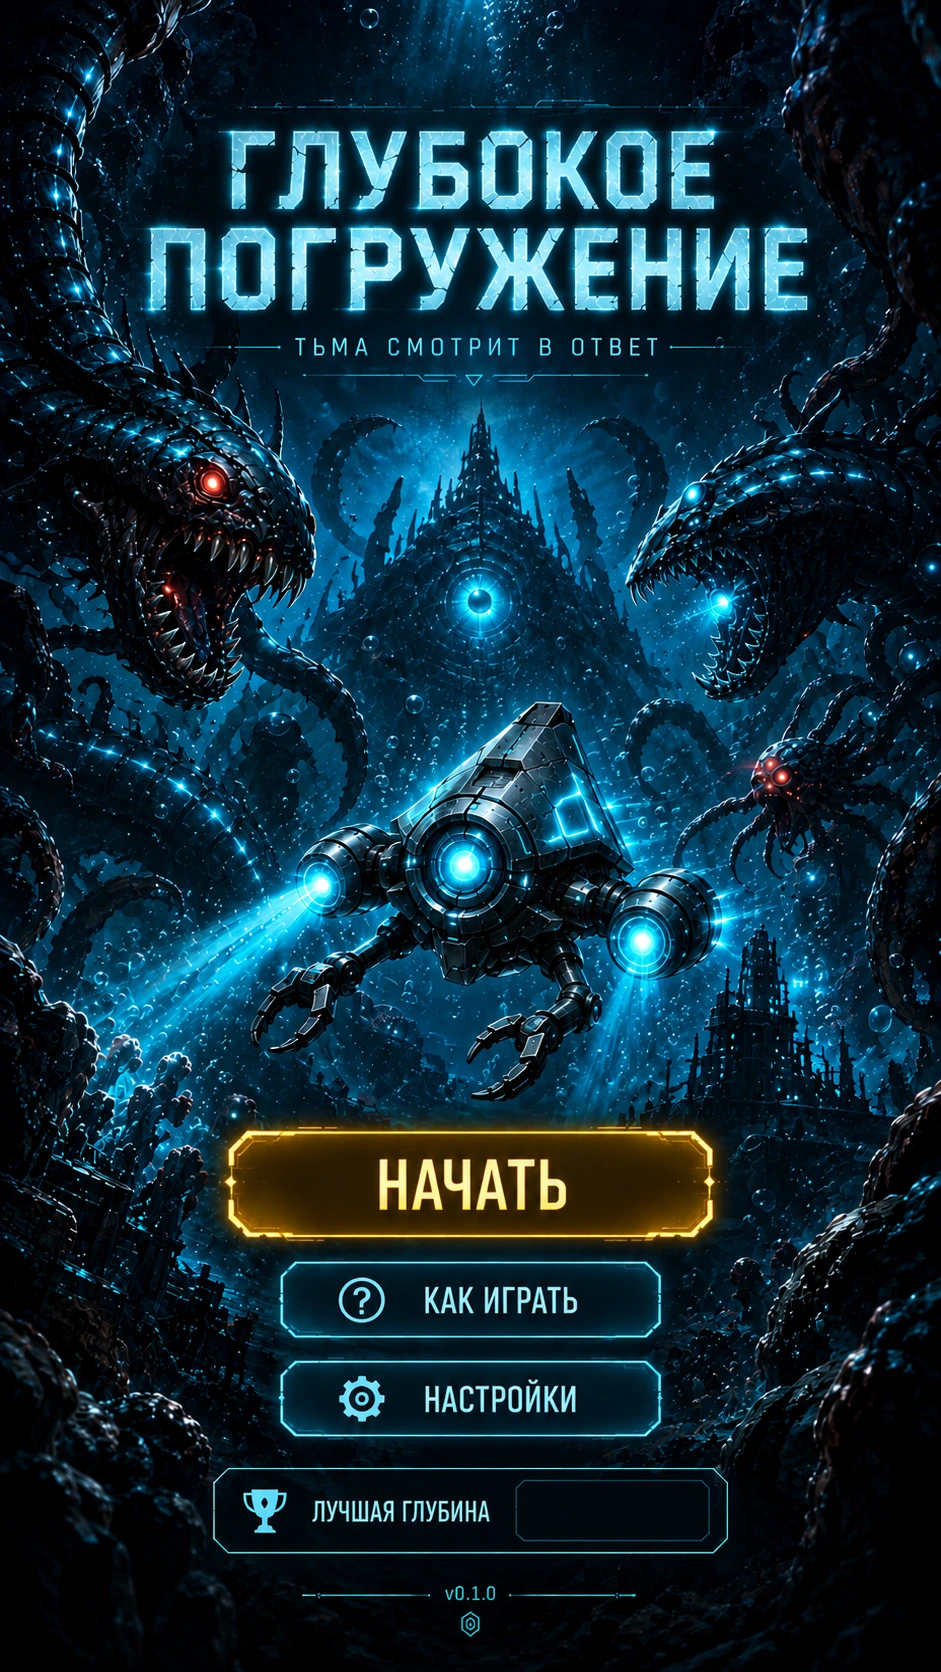
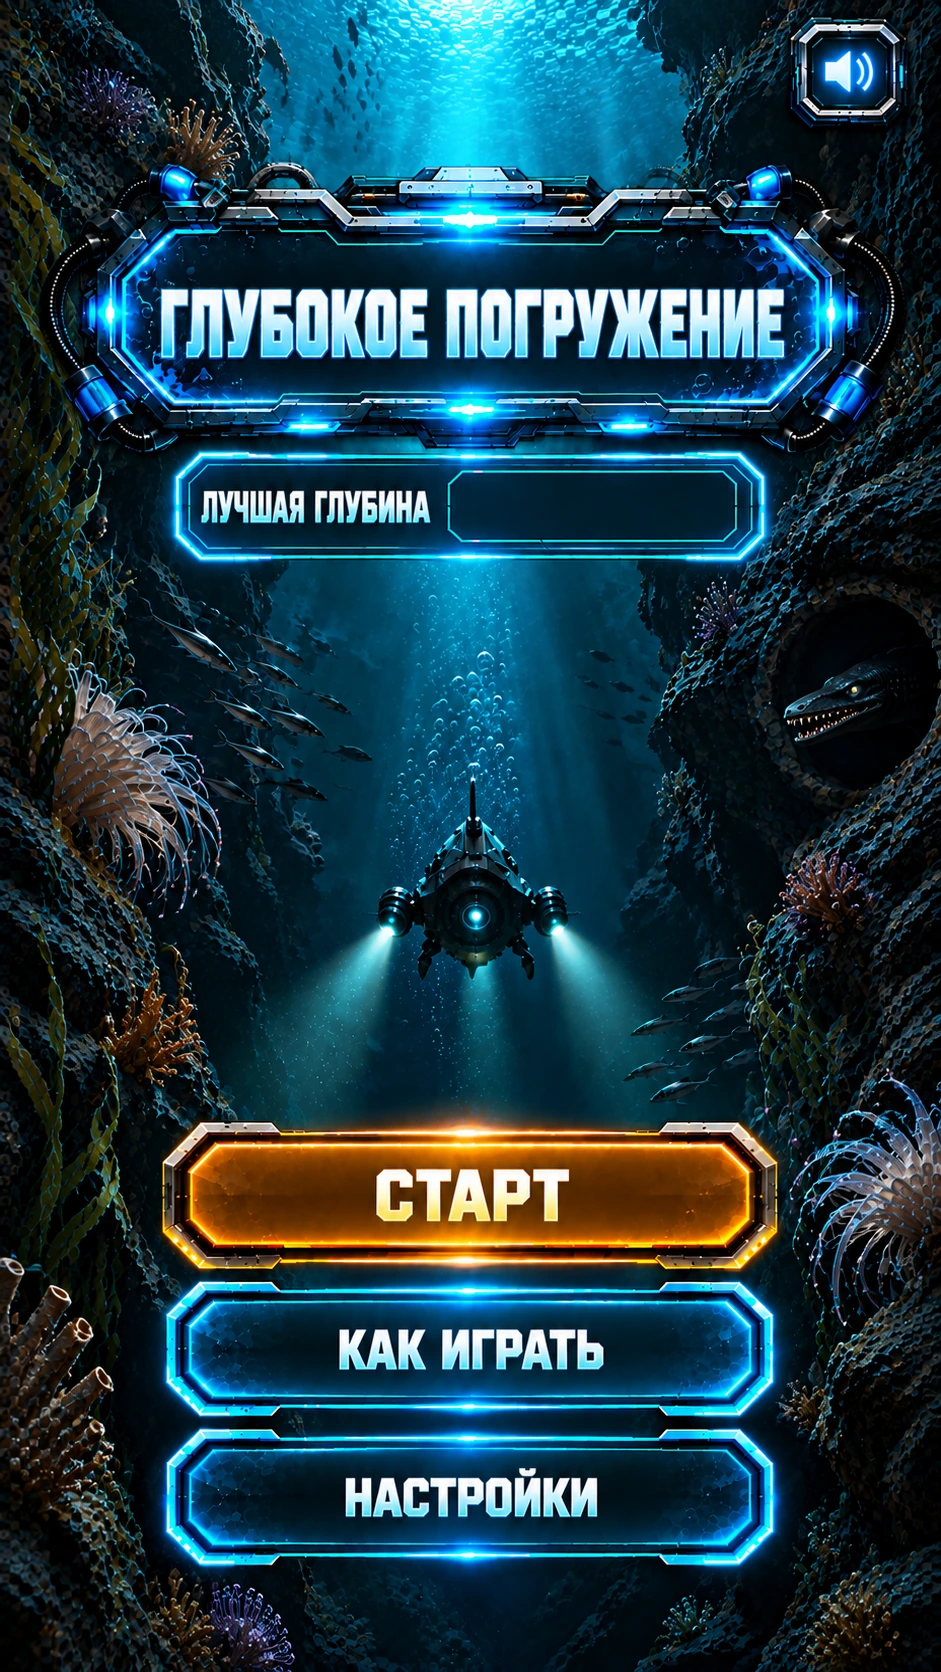
Новый титул принят и вписан: кораллы потеплели, дрон стал нашим
Пропорция 0.5628 против нужных 0.5621, три кнопки совпадают краями,
поле рекорда пустое. Главное — исчезли черви из «Тайны астероида» и
холодные кристаллы: на стенах теперь тёплые наросты, в правой стене
угорь в круглой норе, слева гнездо бледных щупалец, и всё это наши
твари, а не похожие.

Батискаф на титуле — тот самый MK-1 с модельного листа, в игровом
ракурсе: вид сзади-сверху, два сопла с лучами, светящееся ядро, клешни
поджаты. Это готовый эталон для спрайта дрона.

ВСЕ прямоугольники в screens.js сняты заново и ВСЕ переехали. Кнопки
стали шире и ниже (285x57 против 262x57 и 204x41), а поле рекорда уехало
с низа экрана наверх, под заголовок: было [265,749,105,40], стало
[233,232,154,44]. Если бы я их не пересчитал, игрок видел бы рекорд
поверх кнопки «настройки».

Появилась кнопка звука — её на старом титуле не было вовсе. Значок
художник рисует включённым, перечёркивание рисует программа: иначе
пришлось бы держать две картинки титула и следить, чтобы они не
разъехались. Состояние живёт в localStorage.

Проверено в браузере на живой игре: рекорд 3271 м ложится ровно в поле,
подсветка нажатия ложится ровно на свою кнопку, звук переключается,
СТАРТ запускает погружение. 0 ошибок JS, 0 ответов 4xx.

Claude-Session: https://claude.ai/code/session_01PpYFCjWNdNRrAcfmkbGt6g

diff --git a/js/screens.js b/js/screens.js
@@ -32,9 +32,10 @@ const Screens = (() => {
   // Снято с картинок по сетке и проверено наложением.
   const BTN = {
     title: [
-      { id: 'start',    rect: [112, 573, 262, 57] },   // НАЧАТЬ
-      { id: 'howto',    rect: [144, 644, 204, 41] },   // КАК ИГРАТЬ
-      { id: 'settings', rect: [144, 694, 204, 41] },   // НАСТРОЙКИ
+      { id: 'start',    rect: [100, 575, 285, 57] },   // СТАРТ
+      { id: 'howto',    rect: [100, 657, 285, 56] },   // КАК ИГРАТЬ
+      { id: 'settings', rect: [100, 737, 285, 56] },   // НАСТРОЙКИ
+      { id: 'sound',    rect: [417,  19,  43, 41] },   // значок звука
     ],
     howto: [
       { id: 'back',     rect: [100, 733, 280,  80] },  // ПОНЯТНО
@@ -44,12 +45,30 @@ const Screens = (() => {
   // Куда программа пишет свои значения. Рисовать там в макете нельзя —
   // наложится.
   const SLOT = {
-    title: { best: [265, 749, 105, 40] },              // ЛУЧШАЯ ГЛУБИНА
+    title: { best: [233, 232, 154, 44] },              // ЛУЧШАЯ ГЛУБИНА
   };
+
+  // Старый титул был с червями из «Тайны астероида», и прямоугольники
+  // выше сняты уже с нового. Все до единого переехали: кнопки стали шире
+  // и ниже, а поле рекорда уехало с низа экрана наверх, под заголовок.
+  // Это и есть причина, по которой их нельзя задавать на глаз один раз
+  // и забыть: меняется картинка — меняются все числа.
 
   const imgs = {};
   let state = 'title';
   let pressed = null;        // id кнопки, на которой сейчас палец
+
+  // Звук выключен или нет. Значок на титуле нарисован ВКЛЮЧЁННЫМ —
+  // перечёркивание рисует программа. Второй картинки не нужно, а
+  // состояние должно пережить перезаход.
+  let muted = false;
+  try { muted = localStorage.getItem('dd_muted') === '1'; } catch (e) {}
+  function isMuted() { return muted; }
+  function toggleMute() {
+    muted = !muted;
+    try { localStorage.setItem('dd_muted', muted ? '1' : '0'); } catch (e) {}
+    return muted;
+  }
 
   function load() {
     for (const k in ART) {
@@ -115,6 +134,24 @@ const Screens = (() => {
       ctx.restore();
     }
 
+    // Перечёркнутый динамик. Художник рисует значок включённым, выключенное
+    // состояние — наше дело: иначе пришлось бы держать две картинки титула
+    // и следить, чтобы они не разъехались.
+    if (muted && BTN[state]) {
+      const b = BTN[state].find(q => q.id === 'sound');
+      if (b) {
+        const [x, y, w, h] = b.rect;
+        ctx.save();
+        ctx.strokeStyle = 'rgba(255,90,70,0.95)';
+        ctx.lineWidth = 4;
+        ctx.lineCap = 'round';
+        ctx.beginPath();
+        ctx.moveTo(x + 7, y + 7); ctx.lineTo(x + w - 7, y + h - 7);
+        ctx.stroke();
+        ctx.restore();
+      }
+    }
+
     // Подсветка нажатия: прямоугольник кнопки, светлее на короткое время.
     // Ничего не двигаем и не масштабируем — кнопка нарисована художником,
     // наше дело только показать, что палец попал.
@@ -131,6 +168,6 @@ const Screens = (() => {
     }
   }
 
-  return { load, get, set, down, up, cancel, draw, BTN, SLOT };
+  return { load, get, set, down, up, cancel, draw, BTN, SLOT, isMuted, toggleMute };
 
 })();

diff --git a/js/game.js b/js/game.js
@@ -331,7 +331,8 @@ const Game = (() => {
     if (id === 'start')    { Screens.set('game'); start(); }
     else if (id === 'howto')    Screens.set('howto');
     else if (id === 'back')     Screens.set('title');
-    else if (id === 'settings') { /* экран ещё не отрисован */ }
+    else if (id === 'sound')    Screens.toggleMute();
+    else if (id === 'settings') { /* экран отрисован, но ещё не вписан */ }
   }
 
   function _crash() {
